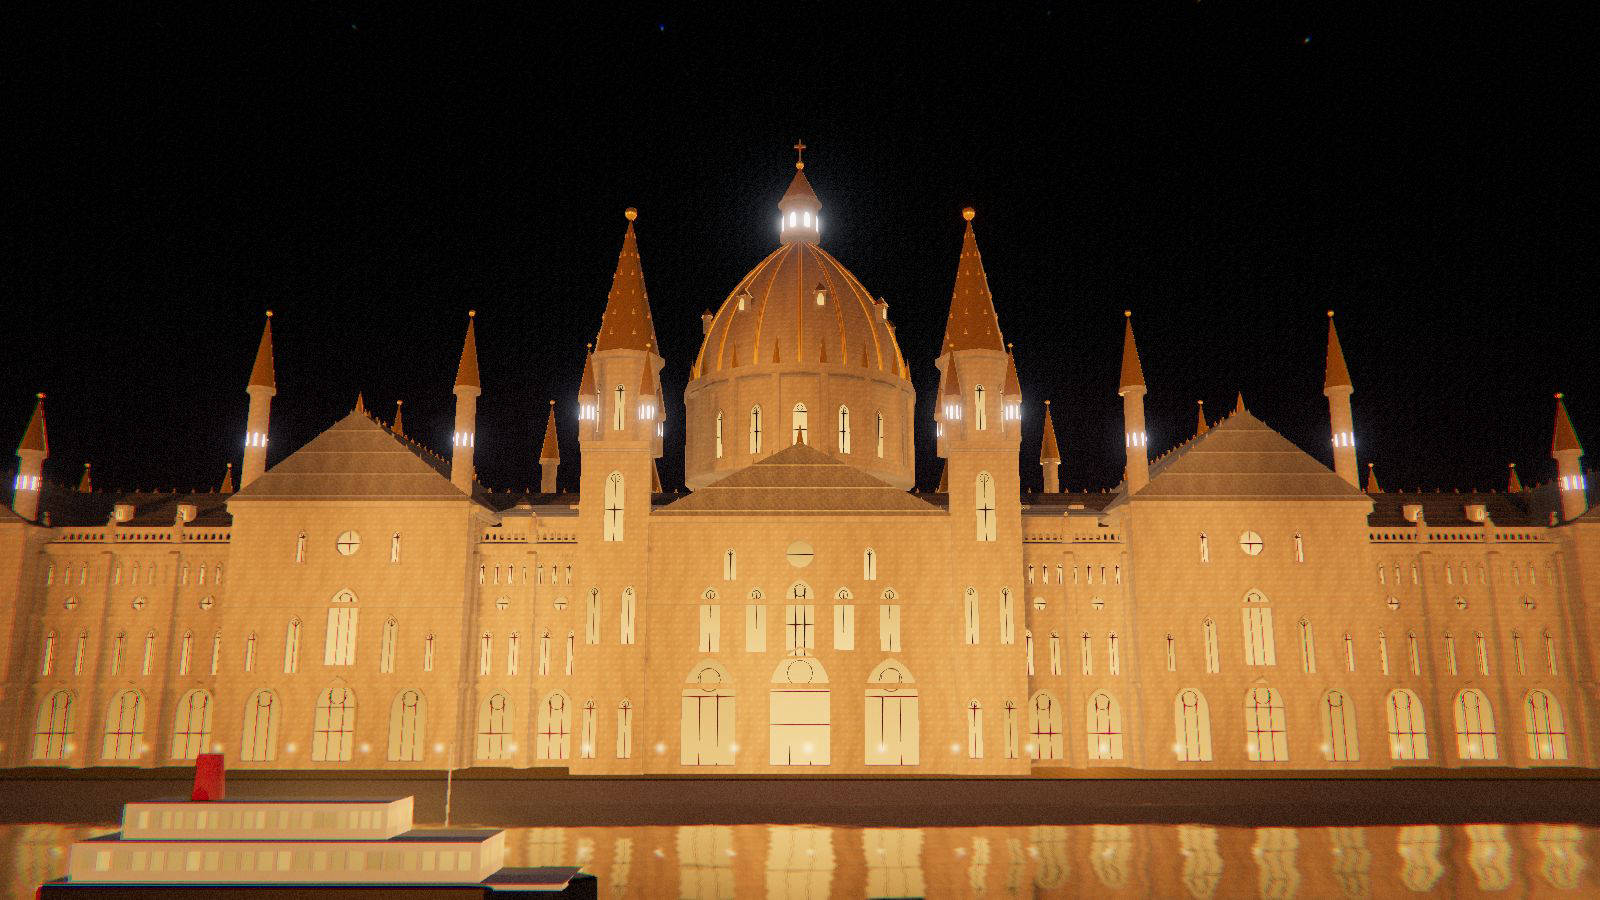
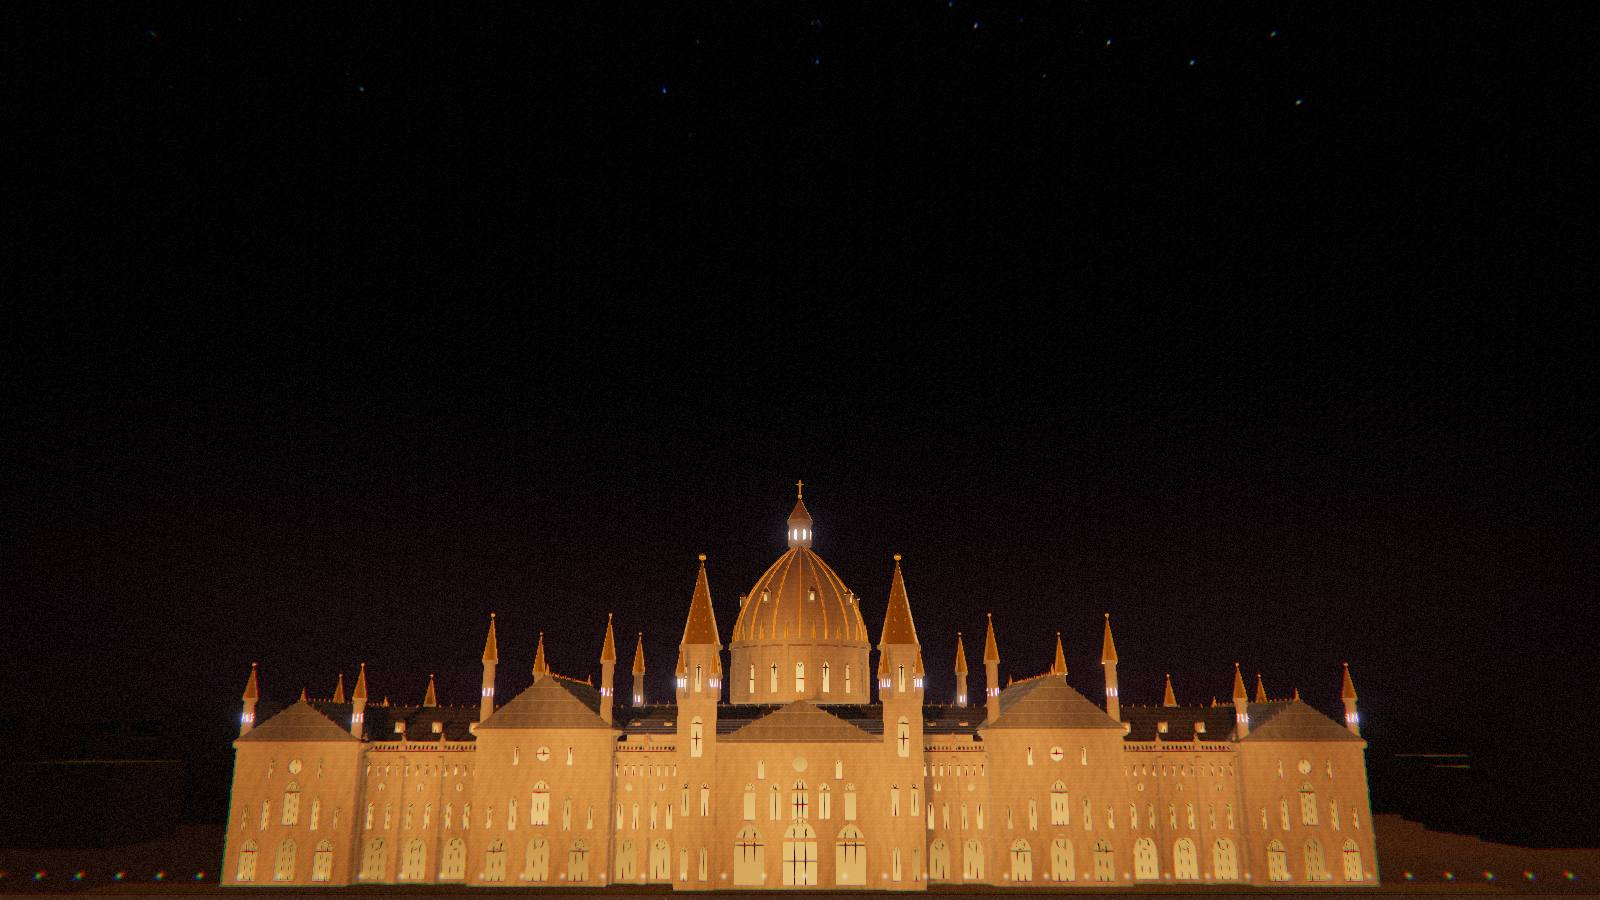
Hero: camera raised and pulled back so the Parliament sits in the lower half, title in the sky above it

diff --git a/public/alexstudio/index.html b/public/alexstudio/index.html
@@ -287,8 +287,8 @@ header.nav{
       space video. The three-project showcase lives further down.
    ============================================================ */
 .hero{position:relative;z-index:2;min-height:100svh;display:flex;flex-direction:column;
-  align-items:center;justify-content:center;text-align:center;
-  padding:calc(150*var(--u)) var(--gutter) calc(60*var(--u) + 26vh); /* content sits high: the Parliament is the star of the first screen */
+  align-items:center;justify-content:flex-start;text-align:center;
+  padding:calc(112*var(--u)) var(--gutter) calc(40*var(--u)); /* the text sits at the top, in the sky ABOVE the Parliament (never over it) */
   /* Scrolling shatters the tagline letters far past the screen edges
      (--ex up to ~230px). Even invisible, those boxes widen the page and make
      mobile browsers zoom out / scroll sideways, so they are clipped here. */
@@ -304,7 +304,7 @@ header.nav{
 
 .tagline{
   font-family:var(--serif);font-weight:400;letter-spacing:.01em;
-  font-size:calc(62*var(--u));line-height:1.15;max-width:18ch;margin:0;color:#fff;
+  font-size:calc(56*var(--u));line-height:1.15;max-width:18ch;margin:0;color:#fff;
 }
 
 /* Scroll-scrubbed letter shatter: --p (0-1) is set on .tagline once per
@@ -325,7 +325,7 @@ header.nav{
     scale(calc(1 - var(--lp) * .4));
   opacity:calc(1 - var(--lp));
 }
-.hero-sub{margin-top:calc(22*var(--u));color:#fff;font-weight:500;font-size:calc(18*var(--u));line-height:1.6;max-width:42ch;}
+.hero-sub{margin-top:calc(18*var(--u));color:#fff;font-weight:500;font-size:calc(17*var(--u));line-height:1.55;max-width:44ch;}
 
 .scroll-arrow{display:flex;flex-direction:column;align-items:center;gap:calc(8*var(--u));
   margin-top:calc(48*var(--u));text-decoration:none;color:var(--muted);}

diff --git a/scene3d/parliament3d.js b/scene3d/parliament3d.js
@@ -965,7 +965,7 @@ function buildInterior(mobile, ctx) {
 /* waypoints: [page progress, position, look-at, fov]; progress 0..6 = hero, vitrine,
    prix, services, à propos, FAQ, contact (see PARL_STOPS in the page). */
 const PATH_A = [
-  [0, [0, 12, 176], [0, 48, 0], 44], /* the first screen: camera low, the whole Parliament in frame (was [0,26,190] -> [0,100,0], dome only) */
+  [0, [0, 34, 300], [0, 111, 0], 44], /* the first screen: the whole Parliament in the lower half, the sky above it for the title (was [0,12,176] -> [0,48,0], building behind the text) */
   [1, [-172, 58, 190], [0, 40, 0], 44],
   [2, [-104, 17, 86], [-70, 31, 0], 46],
   [3, [12, 124, 88], [0, 56, -6], 48],

diff --git a/public/alexstudio/parliament3d.js b/public/alexstudio/parliament3d.js
@@ -15535,12 +15535,12 @@ var hd = [
 		0,
 		[
 			0,
-			12,
-			176
+			34,
+			300
 		],
 		[
 			0,
-			48,
+			111,
 			0
 		],
 		44
